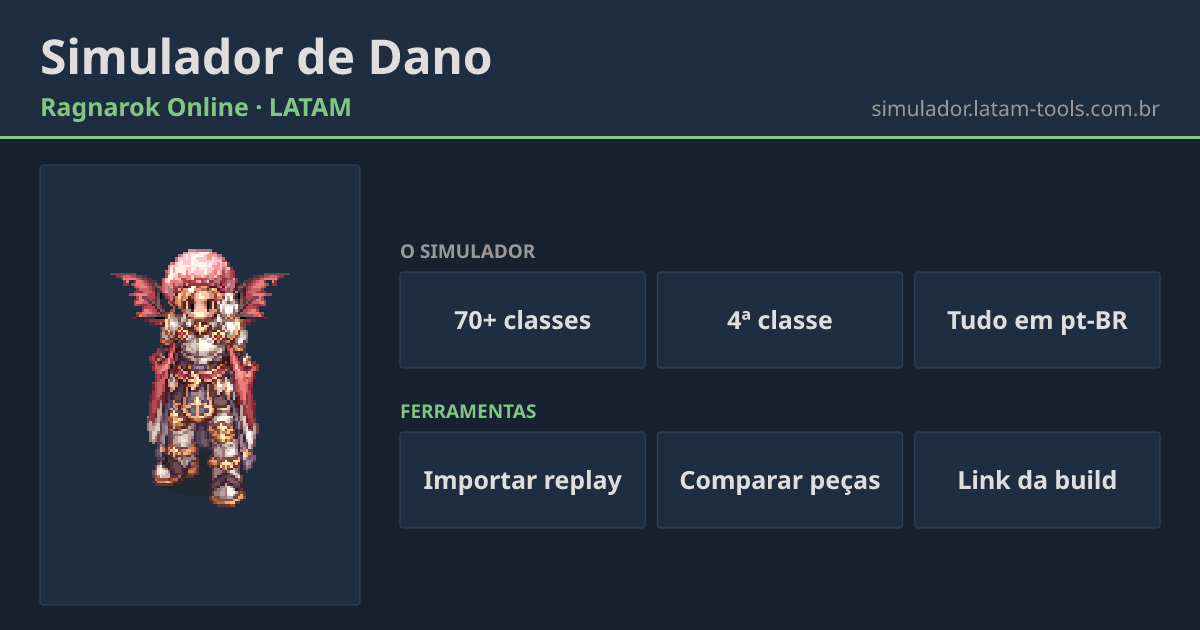
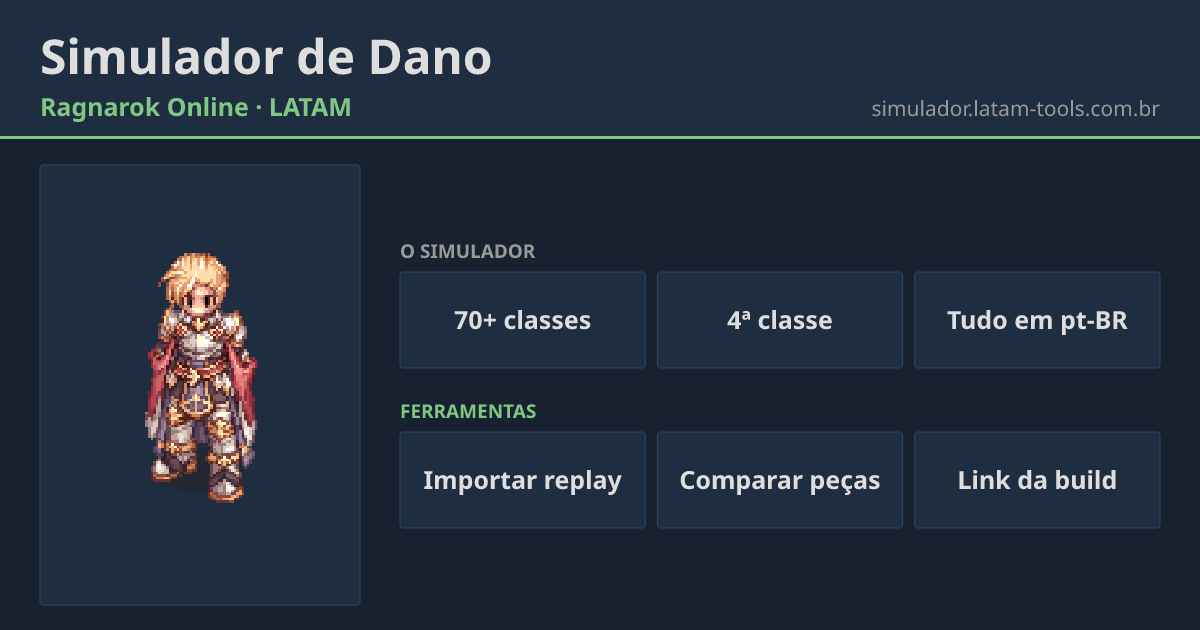
chore: refresh the vendored social cover without the costumes
The cover stands in for every build — the homepage's card, and the fallback for any
link whose build cannot be rendered — so showing one player's headgear and cape made
it read as a specific character rather than as the simulator. It is now the job's own
armour.

Re-vendored from social.latam-tools.com.br/ro-calc/cover.png, which is where it is
rendered now.

Also corrects the refresh instructions: there is no /ro-calc/cover.svg route, the
service only serves PNG. The .svg beside it is the diffable source and comes from
`pnpm cover` in that repo.

Changed region(s): [[0.0925, 0.3921, 0.2467, 0.8143]]

diff --git a/tools/og-cover.spec.ts b/tools/og-cover.spec.ts
@@ -7,7 +7,9 @@
  * that service does not. Refresh it with:
  *
  *   curl https://social.latam-tools.com.br/ro-calc/cover.png -o src/assets/og-cover.png
- *   curl https://social.latam-tools.com.br/ro-calc/cover.svg -o src/assets/og-cover.svg
+ *
+ * The .svg beside it is the diffable source and has no route — the service only serves
+ * PNG. Regenerate it there with `pnpm cover` and copy both files across.
  *
  * This spec asserts only what index.html actually promises about it. Whether it still
  * matches the live card design is not checkable from here — that is the accepted cost of
